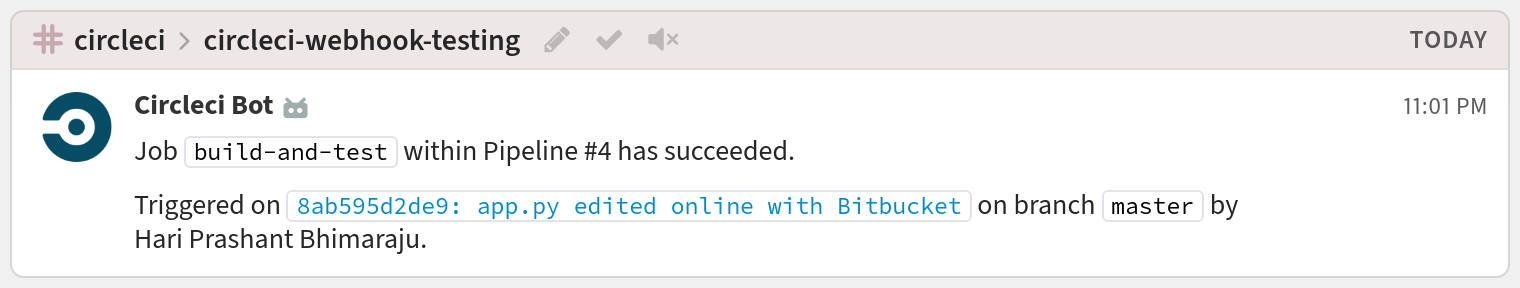
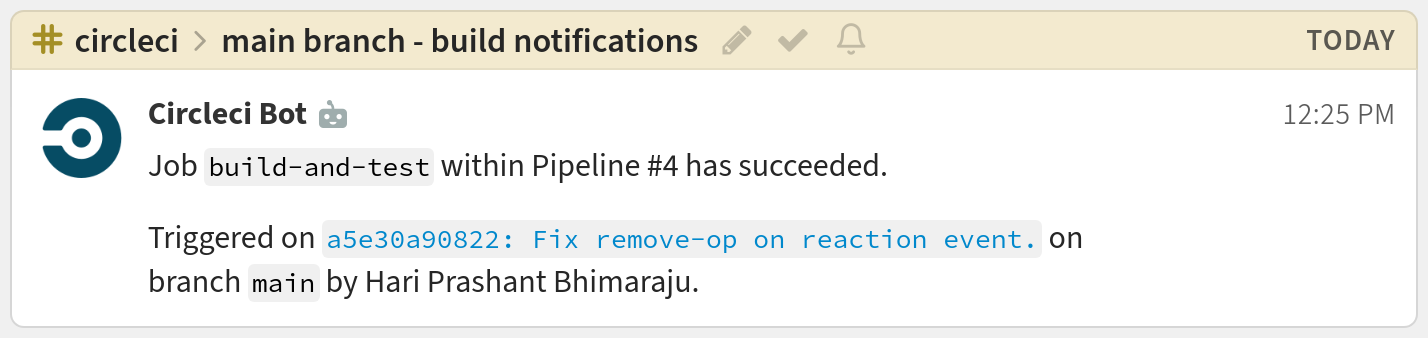
integrations: Refine CircleCI example screenshots.
- Removed the extra screenshot.
- Updated the fixture used to generate the screenshot to use a more
suitable topic name and commit message description.

diff --git a/zerver/webhooks/circleci/tests.py b/zerver/webhooks/circleci/tests.py
@@ -41,11 +41,11 @@ Triggered on [`8ab595d2de9: app.py edited online with Bitbucket`](https://bitbuc
         self.check_webhook("bitbucket_workflow_completed", expected_topic_name, expected_message)
 
     def test_github_job_completed(self) -> None:
-        expected_topic_name = "circleci-webhook-test"
+        expected_topic_name = "main branch - build notifications"
         expected_message = """
 Job `build-and-test` within Pipeline #4 has succeeded.
 
-Triggered on [`a5e30a90822: .circleci: Update Webhook URL.`](https://github.com/zulip-testing/circleci-webhook-test/commit/a5e30a908224e46626a796d058289475f6d387b5) on branch `main` by Hari Prashant Bhimaraju.
+Triggered on [`a5e30a90822: Fix remove-op on reaction event.`](https://github.com/zulip-testing/circleci-webhook-test/commit/a5e30a908224e46626a796d058289475f6d387b5) on branch `main` by Hari Prashant Bhimaraju.
 """.strip()
         self.check_webhook("github_job_completed", expected_topic_name, expected_message)
 

diff --git a/zerver/lib/integrations.py b/zerver/lib/integrations.py
@@ -742,10 +742,7 @@ DOC_SCREENSHOT_CONFIG: dict[str, list[BaseScreenshotConfig]] = {
     ],
     "buildbot": [ScreenshotConfig("started.json")],
     "canarytoken": [ScreenshotConfig("canarytoken_real.json")],
-    "circleci": [
-        ScreenshotConfig("bitbucket_job_completed.json", image_name="001.png"),
-        ScreenshotConfig("github_job_completed.json", image_name="002.png"),
-    ],
+    "circleci": [ScreenshotConfig("github_job_completed.json")],
     "clubhouse": [ScreenshotConfig("story_create.json")],
     "codeship": [ScreenshotConfig("error_build.json")],
     "crashlytics": [ScreenshotConfig("issue_message.json")],
